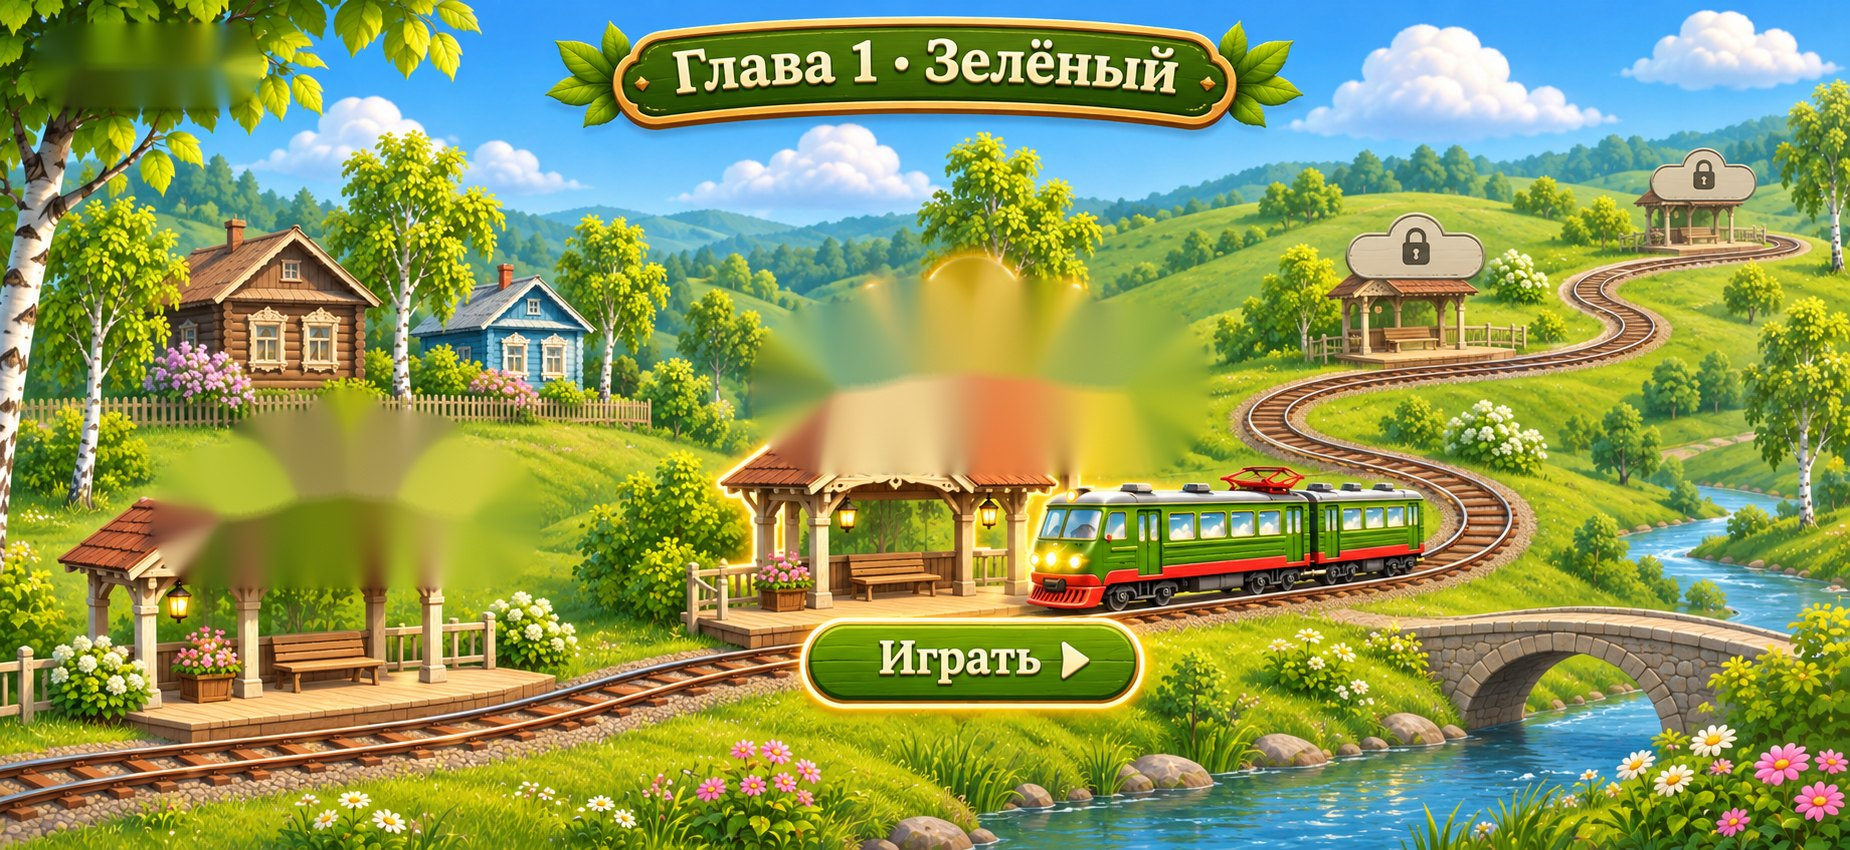
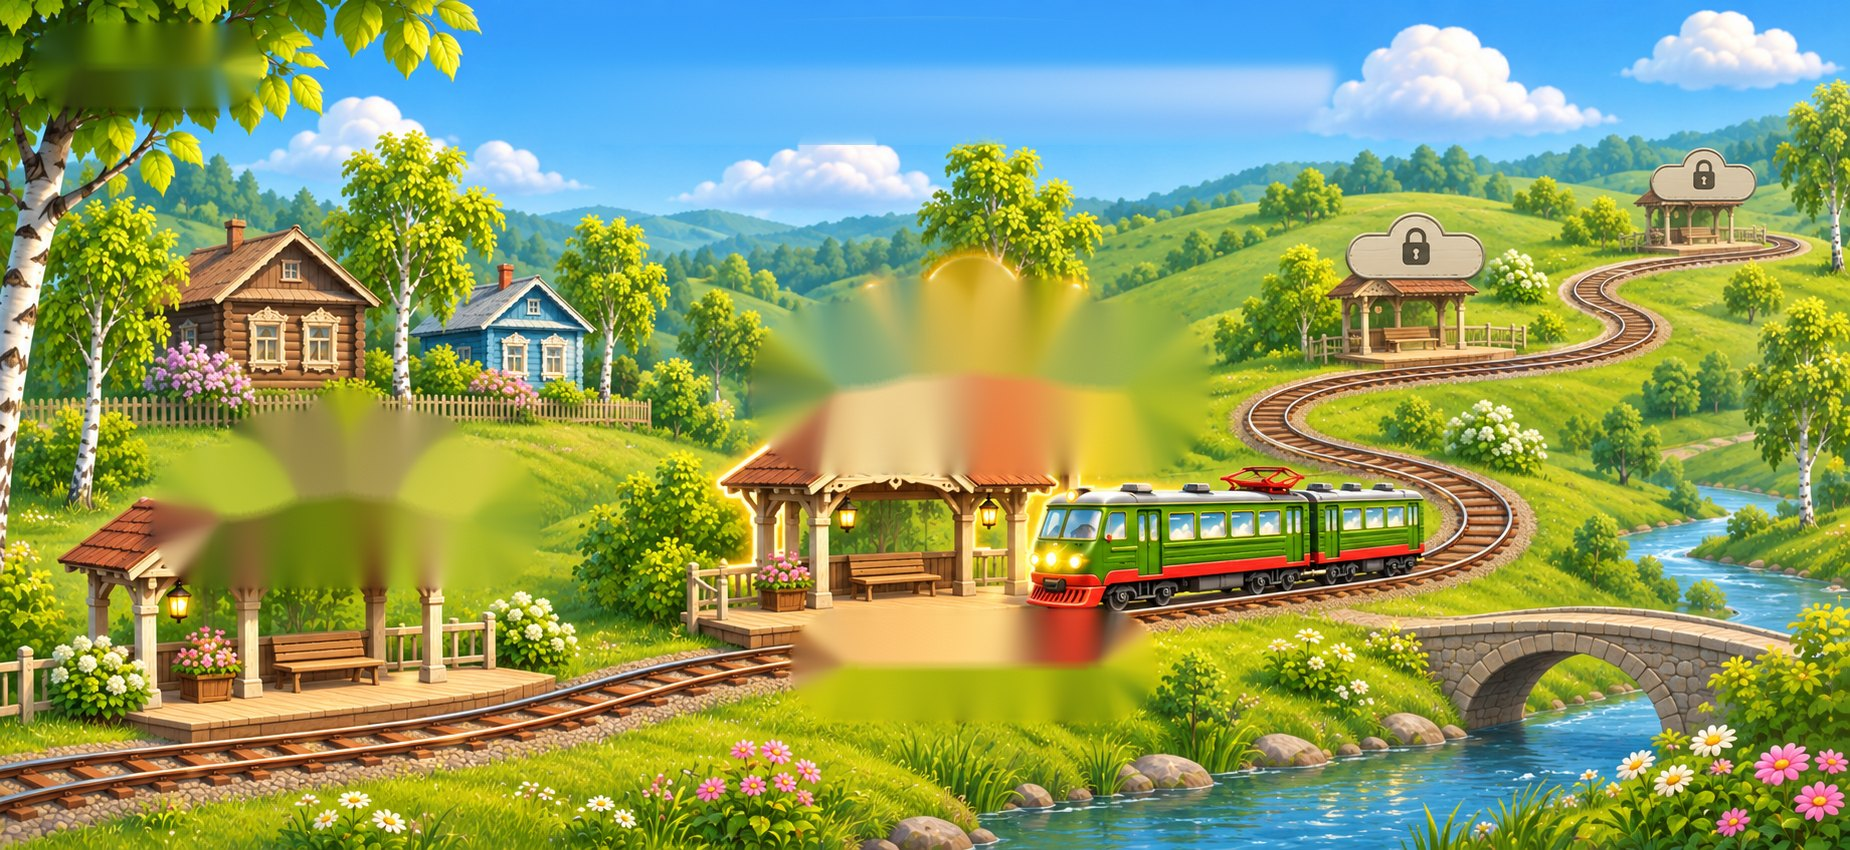
v15: map fits phone, centred title, hints only on level 1, game-style rotate screen
Claude-Session: https://claude.ai/code/session_01A1fsHFsKujy2k637jZdRh7

Changed region(s): [[0.2773, 0.0, 0.7395, 0.1835], [0.4005, 0.7035, 0.647, 0.8565]]

diff --git a/style.css b/style.css
@@ -281,14 +281,49 @@ canvas#game {
   display: none;
   align-items: center;
   justify-content: center;
+  padding: 24px;
   text-align: center;
-  background: #1d3557;
-  color: #fff;
-  font-size: 24px;
+  background:
+    linear-gradient(rgba(255, 248, 225, .25), rgba(30, 60, 20, .35)),
+    url('img/ui/chapter-1.jpg') center / cover no-repeat, #6fa84a;
   z-index: 100;
 }
-.rotate-icon { font-size: 80px; animation: spin 2.4s ease-in-out infinite; }
-@keyframes spin { 0%, 30% { transform: rotate(0); } 70%, 100% { transform: rotate(90deg); } }
+.rotate-card {
+  width: min(380px, 86vw);
+  padding: 30px 26px 24px;
+  border-radius: 26px;
+  border: 4px solid #d9a441;
+  background:
+    radial-gradient(ellipse at 50% 0%, rgba(255, 255, 255, .7), transparent 60%),
+    linear-gradient(#fff9ea, #f3e3bf);
+  outline: 1.5px dashed rgba(150, 100, 40, .45);
+  outline-offset: -10px;
+  box-shadow: 0 0 0 2px #fff4d6 inset, 0 6px 0 #a8741f, 0 20px 40px rgba(0, 0, 0, .35);
+  font-family: Georgia, 'Times New Roman', serif;
+  color: #5a2e12;
+}
+.rotate-phone {
+  position: relative;
+  width: 58px; height: 96px;
+  margin: 4px auto 22px;
+  border-radius: 12px;
+  border: 5px solid #3f7d2c;
+  background: linear-gradient(#bfe6ff, #e9f7d8);
+  box-shadow: 0 4px 0 #2b5a1e;
+  animation: rotate-phone 2.6s ease-in-out infinite;
+}
+.rotate-phone span {
+  position: absolute; left: 50%; bottom: 5px;
+  width: 10px; height: 10px; margin-left: -5px;
+  border-radius: 50%; background: #3f7d2c;
+}
+@keyframes rotate-phone {
+  0%, 25% { transform: rotate(0); }
+  60%, 85% { transform: rotate(-90deg); }
+  100% { transform: rotate(0); }
+}
+.rotate-title { margin: 0 0 6px; font-size: 24px; font-weight: bold; line-height: 1.25; }
+.rotate-sub { margin: 0; font-size: 16px; color: #7a5230; }
 @media (orientation: portrait) {
   #rotate { display: flex; }
 }
@@ -638,13 +673,27 @@ canvas#game {
 #screen-levels { padding: 0; overflow: hidden; background: #6fa64a; }
 .map-scene { position: absolute; --s: 1; }
 .map-bg { position: absolute; inset: 0; width: 100%; height: 100%; display: block; user-select: none; -webkit-user-drag: none; }
-.map-back { position: absolute; z-index: 2; padding: 0; display: flex; align-items: center; justify-content: center; }
+.map-back { position: absolute; z-index: 3; top: calc(10px + var(--safe-t)); left: calc(12px + var(--safe-l)); padding: 8px 20px; font-size: 19px; }
+.map-title {
+  position: absolute; z-index: 2; top: calc(10px + var(--safe-t)); left: 50%;
+  transform: translateX(-50%);
+  margin: 0; padding: 10px 40px 12px;
+  white-space: nowrap;
+  font: 700 clamp(20px, 4.2vh, 36px)/1 Georgia, "Times New Roman", serif;
+  color: #fff4dc; text-shadow: 0 2px 0 rgba(20, 50, 15, .6);
+  border-radius: 999px;
+  border: 3px solid #d9a441;
+  background: radial-gradient(ellipse at 50% 20%, rgba(255, 255, 255, .18), transparent 60%), linear-gradient(#609c48, #3b6e2d);
+  outline: 1.5px dashed rgba(255, 235, 170, .6); outline-offset: -7px;
+  box-shadow: inset 0 0 0 2px rgba(25, 60, 20, .5), 0 4px 0 #a8741f, 0 8px 16px rgba(0, 0, 0, .3);
+}
 .map-play {
-  position: absolute; border: 0; padding: 0; background: transparent; border-radius: 999px;
+  position: absolute; padding: 0;
+  font-size: calc(46px * var(--s)); border-width: calc(5px * var(--s));
+  outline-offset: calc(-9px * var(--s));
   animation: play-glow 1.8s ease-in-out infinite;
 }
-.map-play:active { transform: scale(.96); }
-@keyframes play-glow { 0%, 100% { box-shadow: 0 0 0 0 rgba(255, 230, 120, 0); } 50% { box-shadow: 0 0 calc(26px * var(--s)) calc(4px * var(--s)) rgba(255, 230, 120, .55); } }
+@keyframes play-glow { 0%, 100% { filter: brightness(1); } 50% { filter: brightness(1.12) drop-shadow(0 0 calc(14px * var(--s)) rgba(255, 230, 120, .8)); } }
 .map-stop {
   position: absolute; border: 0; padding: 0; background: none;
   display: flex; flex-direction: column; align-items: center; justify-content: flex-end;
@@ -710,6 +759,8 @@ canvas#game {
 .stars-why { font-size: 15px !important; color: #7a5a3a; }
 @media (max-height: 500px) {
   .stars.big .star { width: 40px; height: 40px; }
+  .map-back { font-size: 14px; padding: 5px 12px; top: calc(6px + var(--safe-t)); }
+  .map-title { top: calc(6px + var(--safe-t)); padding: 6px 24px 8px; }
 }
 
 .menu-refresh { position: absolute; right: calc(12px + var(--safe-r)); bottom: calc(10px + var(--safe-b)); font-size: 15px; padding: 7px 16px; opacity: .9; }

diff --git a/src/main.js b/src/main.js
@@ -296,6 +296,7 @@ function openIntro(i) {
   $('intro-eyebrow').textContent = L.chapter;
   $('intro-title').textContent = L.title;
   $('intro-text').textContent = L.text;
+  $('intro-hints').classList.toggle('hidden', i !== 0);
   mode = 'intro';
   show('intro');
 }
@@ -366,6 +367,7 @@ function renderMap() {
   const chapter = LEVELS[mapSel].chapter;
   const M = MAPS[chapter];
   $('map-bg').src = M.img;
+  $('map-title').textContent = chapter;
   const box = $('map-stops');
   box.innerHTML = '';
   LEVELS.forEach((L, i) => {
@@ -399,32 +401,22 @@ function renderMap() {
   pl.style.height = `${((p[3] - p[1]) / M.h) * 100}%`;
   layoutMap();
 }
-// Карта шире экрана: масштабируем так, чтобы влезла важная часть (focus), и при этом экран был закрыт целиком.
+// Карта закрывает экран целиком (лишнее по краям обрезается), в центре — станции и кнопка «Играть».
 function layoutMap() {
   const M = MAPS[LEVELS[mapSel].chapter];
   const vw = window.innerWidth;
   const vh = window.innerHeight;
-  const f = M.focus;
-  const fit = Math.min(vw / (f[2] - f[0]), vh / (f[3] - f[1]));
-  const s = Math.max(fit, vw / M.w, vh / M.h);
+  const s = Math.max(vw / M.w, vh / M.h);
   const W = M.w * s;
   const H = M.h * s;
-  const cx = ((f[0] + f[2]) / 2) * s;
-  const cy = ((f[1] + f[3]) / 2) * s;
-  const left = Math.min(0, Math.max(vw - W, vw / 2 - cx));
-  const top = Math.min(0, Math.max(vh - H, vh / 2 - cy));
+  const boxes = [...Object.values(M.stops), M.play];
+  const fx = (Math.min(...boxes.map((r) => r[0])) + Math.max(...boxes.map((r) => r[2]))) / 2;
+  const fy = (Math.min(...boxes.map((r) => r[1])) + Math.max(...boxes.map((r) => r[3]))) / 2;
+  const left = Math.min(0, Math.max(vw - W, vw / 2 - fx * s));
+  const top = Math.min(0, Math.max(vh - H, vh / 2 - fy * s));
   const sc = $('map-scene');
   Object.assign(sc.style, { width: `${W}px`, height: `${H}px`, left: `${left}px`, top: `${top}px` });
   sc.style.setProperty('--s', s);
-  // «Назад» — на месте нарисованной кнопки, но не дальше края экрана.
-  const back = document.querySelector('.map-back');
-  Object.assign(back.style, {
-    left: `${Math.max(12, left + 32 * s)}px`,
-    top: `${Math.max(10, top + 22 * s)}px`,
-    width: `${230 * s}px`,
-    height: `${86 * s}px`,
-    fontSize: `${Math.max(14, 30 * s)}px`,
-  });
 }
 window.addEventListener('resize', () => { if (mode === 'levels') layoutMap(); });
 $('map-play').addEventListener('click', () => openIntro(mapSel));

diff --git a/index.html b/index.html
@@ -62,8 +62,9 @@
     <div id="map-scene" class="map-scene">
       <img id="map-bg" class="map-bg" alt="">
       <div id="map-stops"></div>
-      <button id="map-play" class="map-play" aria-label="Играть"></button>
+      <button id="map-play" class="btn secondary map-play">Играть ▶</button>
     </div>
+    <h2 id="map-title" class="map-title"></h2>
     <button class="btn map-back" data-action="menu">← Назад</button>
   </section>
 
@@ -103,7 +104,7 @@
       <p class="eyebrow" id="intro-eyebrow"></p>
       <h2 id="intro-title"></h2>
       <p id="intro-text"></p>
-      <ul class="hints">
+      <ul id="intro-hints" class="hints">
         <li><b>◀ ▶</b> слева: бежать</li>
         <li><b>⤒</b> справа: прыжок (держи дольше, чтобы прыгнуть выше)</li>
         <li><b><i class="stone-icon small"></i></b> справа: бросить камень, он ломает ящики и прогоняет гусей</li>
@@ -168,9 +169,10 @@
   <div id="loading"><div><div class="spinner"></div><p>Загружаем Зелёный…</p></div></div>
 
   <div id="rotate">
-    <div>
-      <div class="rotate-icon">⟳</div>
-      <p>Поверни iPad горизонтально</p>
+    <div class="rotate-card">
+      <div class="rotate-phone"><span></span></div>
+      <p class="rotate-title">Поверните экран горизонтально</p>
+      <p class="rotate-sub">Так Полине будет где разбежаться!</p>
     </div>
   </div>
 

diff --git a/src/levels.js b/src/levels.js
@@ -73,13 +73,13 @@ export const LEVELS = [
 ];
 
 // Карты глав для выбора уровня. Координаты в пикселях картинки карты:
-// focus — что обязательно должно влезть в экран; stops — где плашка уровня (x0, y0, x1, y1); play — кнопка «Играть».
+// stops — где плашка уровня (x0, y0, x1, y1); play — кнопка «Играть». Карта закрывает экран целиком,
+// по центру — середина между станциями.
 export const MAPS = {
   'Глава 1 · Зелёный': {
     img: 'img/ui/levels-zeleny.jpg',
     w: 1850,
     h: 850,
-    focus: [130, 15, 1300, 712],
     play: [800, 615, 1145, 712],
     stops: {
       'zeleny-1': [155, 392, 537, 585],

diff --git a/src/version.js b/src/version.js
@@ -3,4 +3,4 @@
 //   2) поставь тот же номер и список изменений в version.json (их и покажет плашка),
 //   3) увеличь VERSION в sw.js.
 // Игра на главной сверяет свой номер с version.json на сайте и, если там новее, предлагает обновиться.
-export const APP_VERSION = 14;
+export const APP_VERSION = 15;

diff --git a/sw.js b/sw.js
@@ -1,6 +1,6 @@
 // Офлайн-кэш: после первого открытия игра работает без интернета.
 // При каждом обновлении игры увеличивай VERSION, чтобы iPad подхватил новые файлы.
-const VERSION = 'v14';
+const VERSION = 'v15';
 const CACHE = `polina-${VERSION}`;
 const FILES = [
   './',
